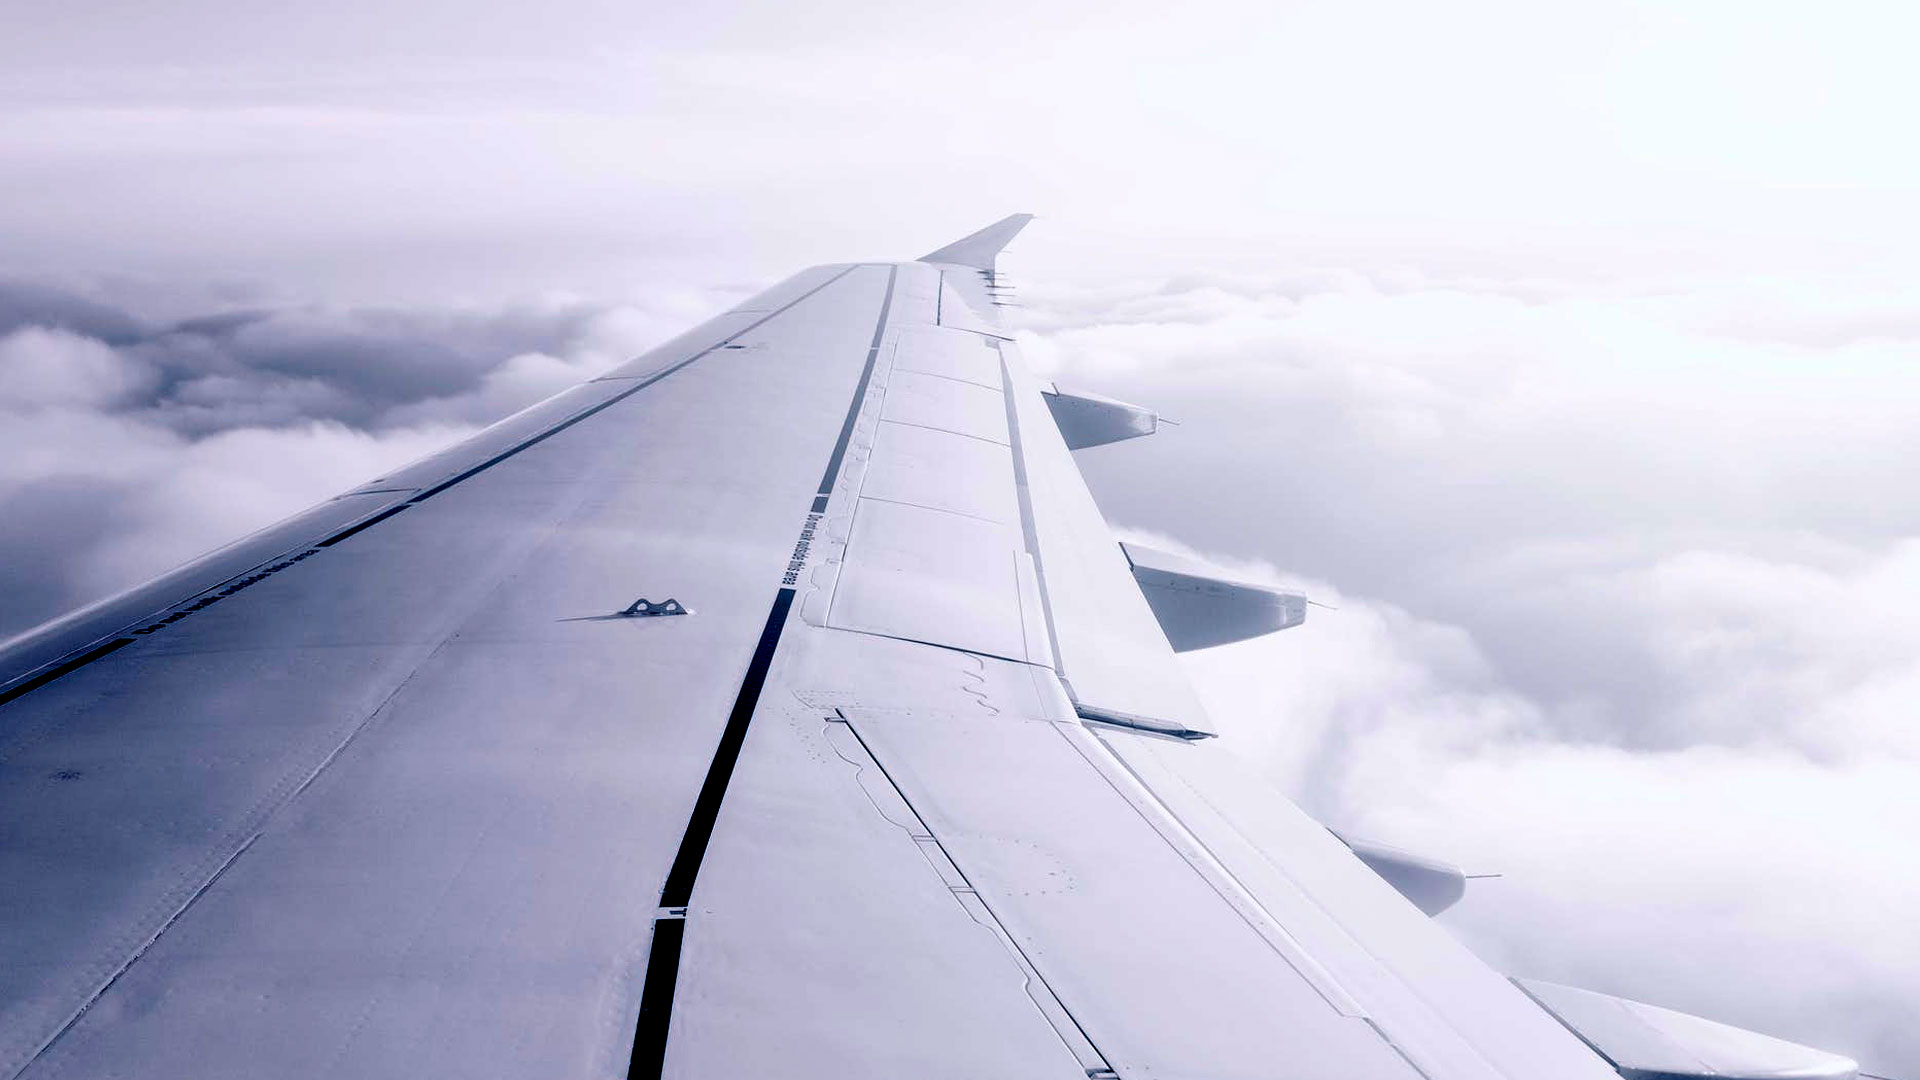
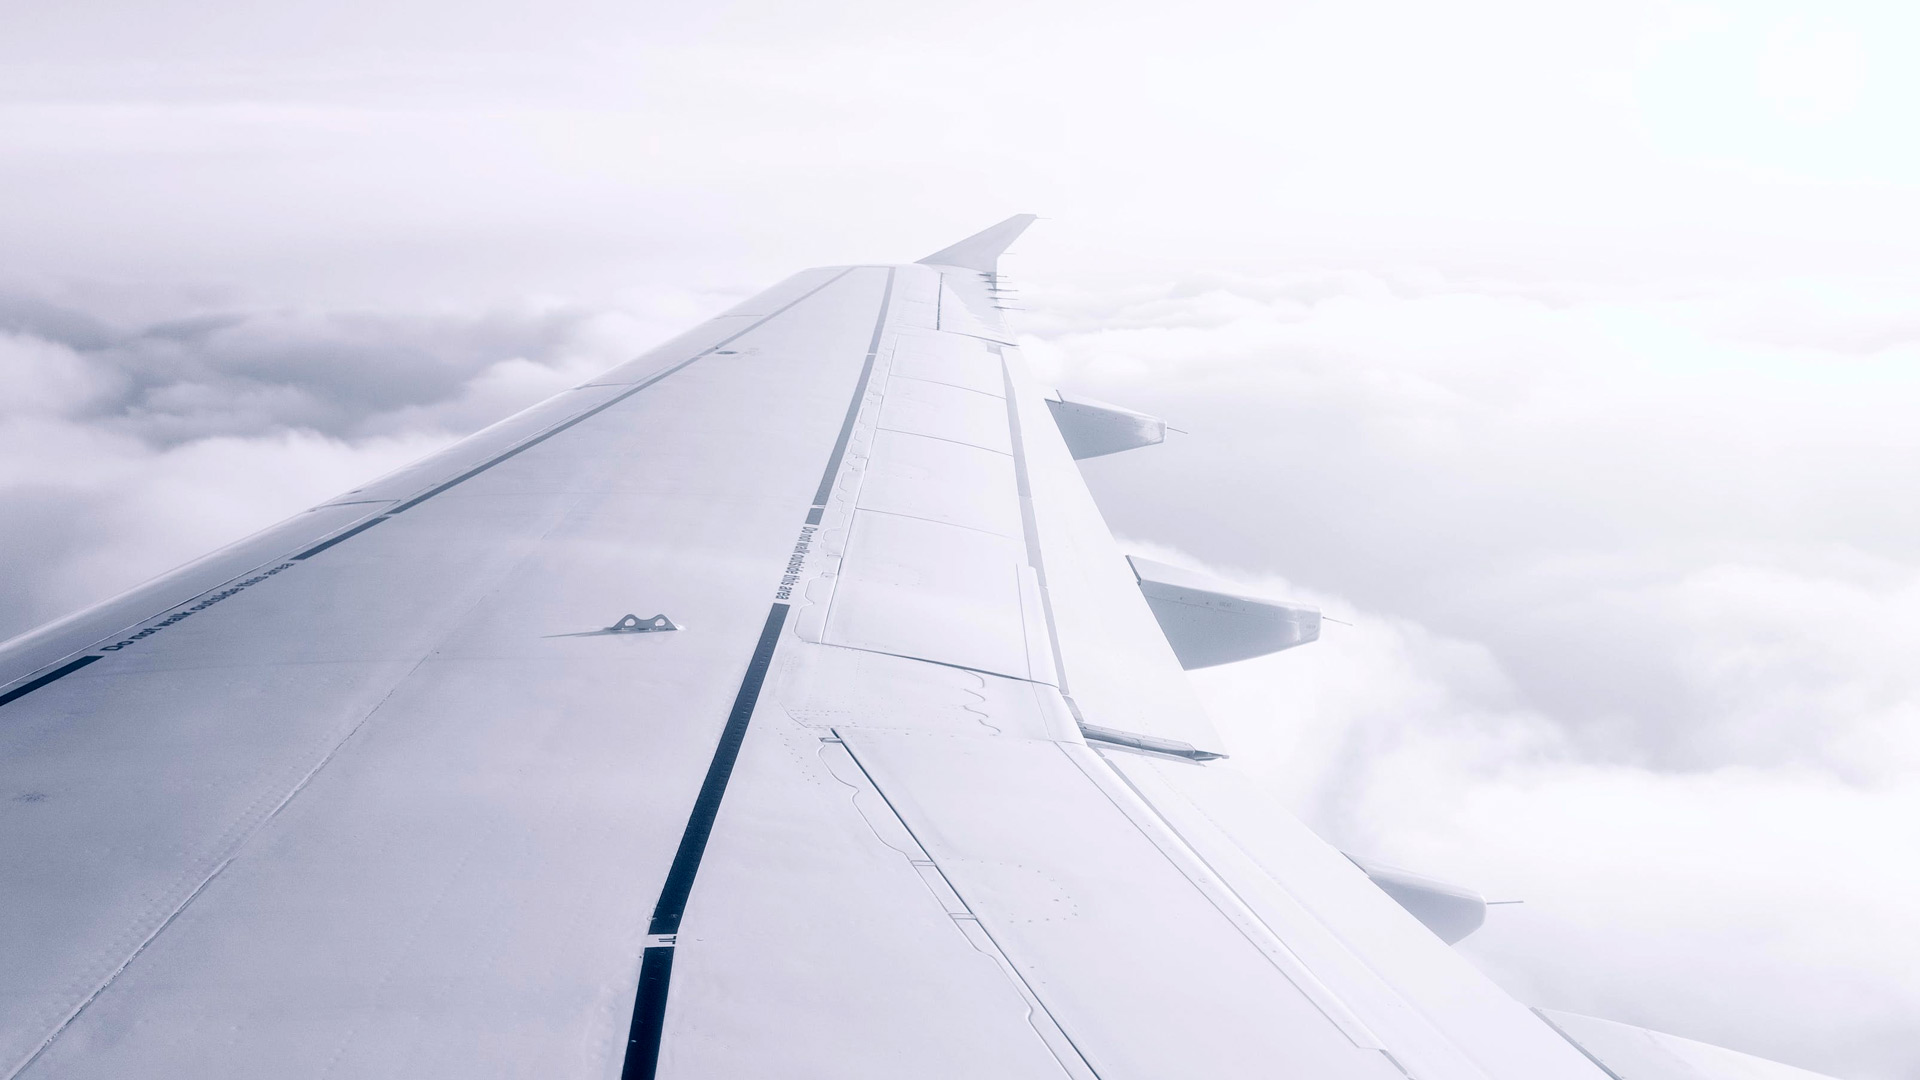
Fondo dependiente

diff --git a/pages/index.tsx b/pages/index.tsx
@@ -4,6 +4,7 @@ import Nav from '@/components/nav'
 import Container from '@/components/container'
 import Entries from '@/components/entries'
 import Jumbotronix from '@/components/jumbotron'
+import Layout from '@/components/layout'
 
 import { useEntries } from '@/lib/swr-hooks'
 
@@ -12,29 +13,33 @@ export default function IndexPage() {
 
   if (isLoading) {
     return (
-      <div>
-        <Nav />
-        <Container>
-          <Skeleton width={180} height={24} />
-          <Skeleton height={48} />
-          <div className="my-4" />
-          <Skeleton width={180} height={24} />
-          <Skeleton height={48} />
-          <div className="my-4" />
-          <Skeleton width={180} height={24} />
-          <Skeleton height={48} />
-        </Container>
-      </div>
+      <Layout home>
+        <div>
+          <Nav />
+          <Container>
+            <Skeleton width={180} height={24} />
+            <Skeleton height={48} />
+            <div className="my-4" />
+            <Skeleton width={180} height={24} />
+            <Skeleton height={48} />
+            <div className="my-4" />
+            <Skeleton width={180} height={24} />
+            <Skeleton height={48} />
+          </Container>
+        </div>
+      </Layout>
     )
   }
 
   return (
-    <div>
-      <Nav />
-      <Container>
-        <Jumbotronix title="PRUEBA DE APIS" />
-        <Entries entries={entries} />
-      </Container>
-    </div>
+    <Layout home="home">
+      <div>
+        <Nav />
+        <Container>
+          <Jumbotronix title="PRUEBA DE APIS" />
+          <Entries entries={entries} />
+        </Container>
+      </div>
+    </Layout>
   )
 }

diff --git a/components/layout/index.tsx b/components/layout/index.tsx
@@ -1,10 +1,15 @@
 import Head from 'next/head'
-import Link from 'next/link'
 
 const name = 'Your Name'
 export const siteTitle = 'Next.js Sample Website'
 
-export default function Layout({ children, home }) {
+function Layout({ children, home }) {
+    let imagen = "";
+    if(home === "home"){
+        imagen = "fondo_avion.jpg"
+    } else {
+        imagen = "fondo_isla.jpg"
+    }
     return (
         <div>
             <Head>
@@ -16,8 +21,12 @@ export default function Layout({ children, home }) {
                 <meta name="og:title" content={siteTitle} />
                 <meta name="twitter:card" content="summary_large_image" />
             </Head>
-            {home ? "SI ES EL HOME" : "NO ES EL HOME"}
-            <main>{children}</main>
+            <main style={{
+                background: 'url('+imagen+') no-repeat center center fixed',
+                backgroundSize: 'cover'
+            }}>{children}</main>
         </div>
     )
 }
+
+export default Layout;

diff --git a/styles/index.css b/styles/index.css
@@ -6,20 +6,20 @@ body {
   font-family: 'Josefin Sans', sans-serif;
 }
 .navbar {
-  background-color: #222 !important;
-  box-shadow: 0 0 10px #000;
+  background: transparent;
+  background-color: transparent !important;
 }
 .elfooter {
-  background: #222;
+  background: rgba(0,0,0,0.8);
   color: #ffffff;
   font-weight: 100;
-  box-shadow: 0 0 10px #000;
 }
 .btn {
   border-radius: none !important;
 }
 .eljumbo {
-  background: #111;
+  background: transparent;
+  background-color: transparent !important;
   padding: 10px;
 }
 .eljumbo h1 {
@@ -28,7 +28,7 @@ body {
   color:#ffffff;
 }
 .entradas {
-  margin-bottom: 90px;
+  margin-bottom: 0px;
 }
 .text-3xl {
   color: #ffffff;

diff --git a/components/entries/entry/index.tsx b/components/entries/entry/index.tsx
@@ -19,7 +19,7 @@ function Entry({ id, title, content }) {
   
   return (
     <div className="container pb-3">
-      <div className="py-2 px-2 mx-auto bg-dark shadow-md space-y-2 sm:py-4 sm:flex sm:items-center sm:space-y-0 sm:space-x-6">
+      <div className="py-2 px-2 mx-auto bg-transparent shadow-md space-y-2 sm:py-4 sm:flex sm:items-center sm:space-y-0 sm:space-x-6">
         <img className="block h-24 rounded-full sm:mx-0 sm:flex-shrink-0" src="https://images.pexels.com/photos/415829/pexels-photo-415829.jpeg?auto=compress&cs=tinysrgb&dpr=2&h=650&w=940" alt="Woman's Face" />
         <div className="text-center space-y-2 sm:text-left">
           <div className="space-y-0.5">

diff --git a/pages/new.tsx b/pages/new.tsx
@@ -1,14 +1,15 @@
 import Nav from '@/components/nav'
 import Container from '@/components/container'
 import EntryForm from '@/components/entry-form'
+import Layout from '@/components/layout'
 
 export default function NewEntryPage() {
   return (
-    <>
+    <Layout home="nueva">
       <Nav title="NUEVA" />
       <Container className="w-full lg:w-2/4">
         <EntryForm />
       </Container>
-    </>
+    </Layout>
   )
 }

diff --git a/components/container/index.tsx b/components/container/index.tsx
@@ -1,10 +1,6 @@
-import Layout from '../layout'
-
 function Container({ className = '', children }) {
   return (
-    <Layout home>
-      <div className={'container-fluid mx-auto px-0' + className}>{children}</div>
-    </Layout>
+    <div className={'container-fluid mx-auto px-0' + className}>{children}</div>
   )
 }
 

diff --git a/components/entry-form/index.tsx b/components/entry-form/index.tsx
@@ -59,7 +59,7 @@ export default function EntryForm() {
         />
       </div>
       <Button disabled={submitting} type="submit">
-        {submitting ? 'Creating ...' : 'Create'}
+        {submitting ? 'CREANDO ...' : 'CREAR'}
       </Button>
     </form>
   )
